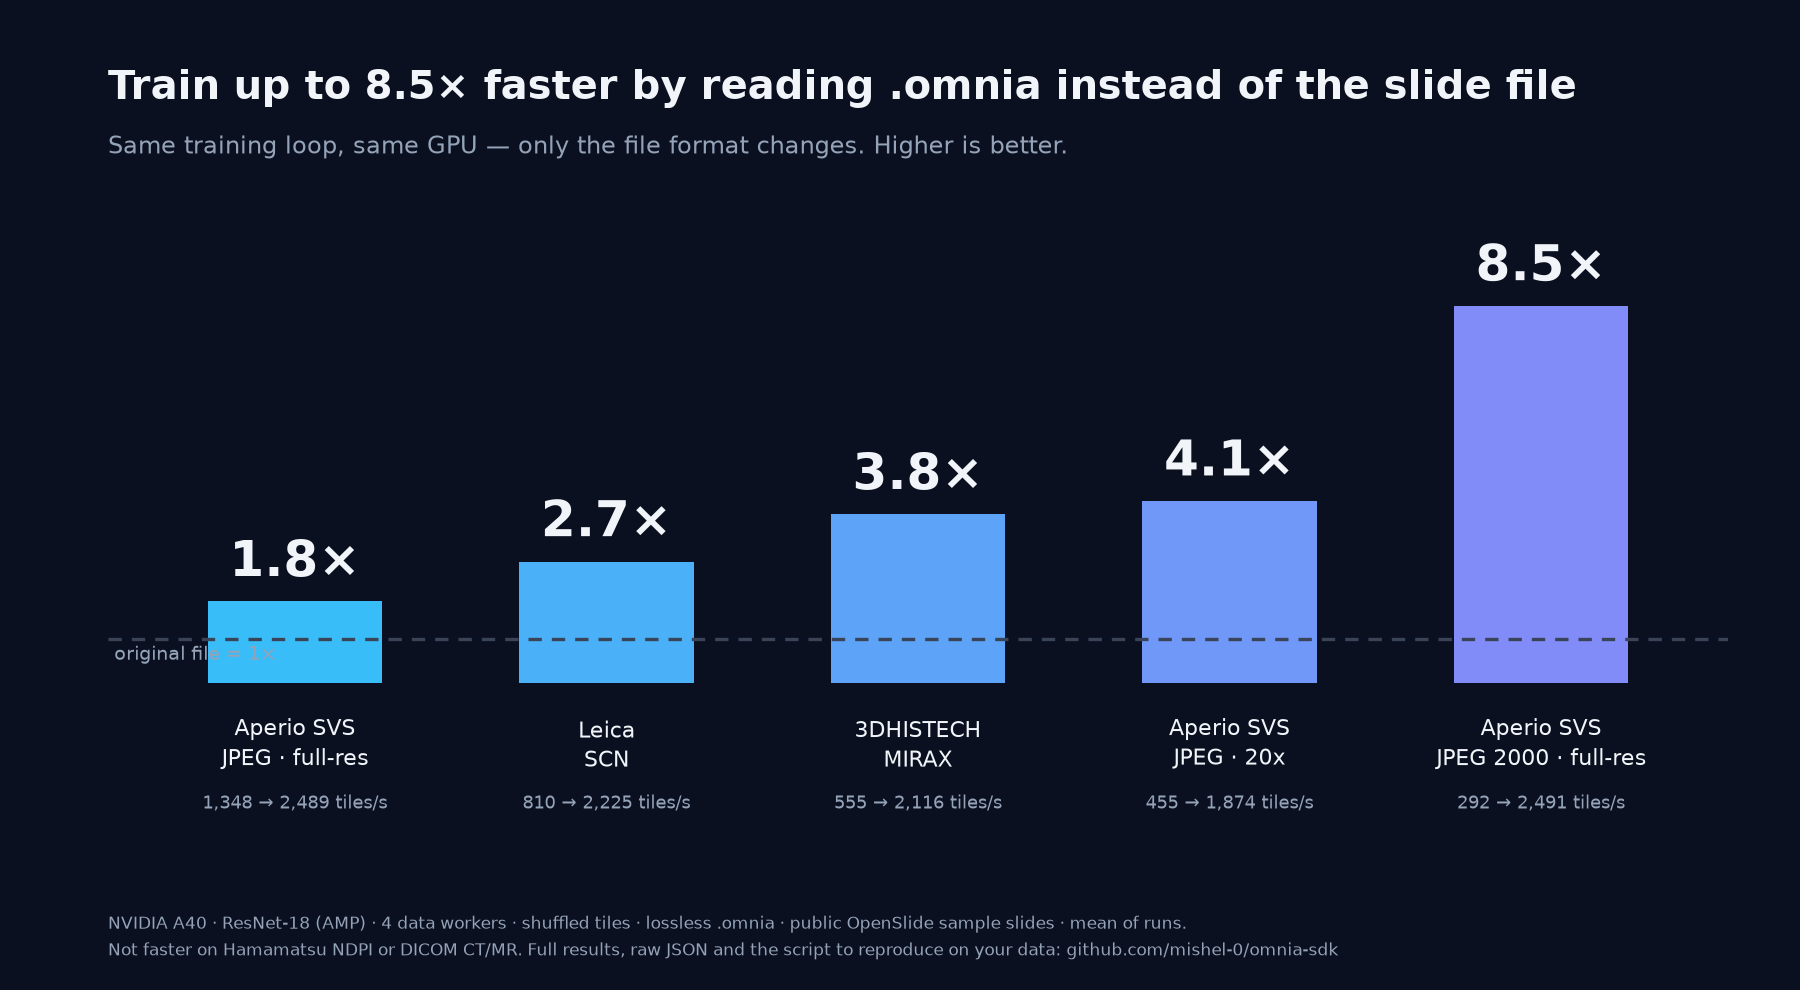
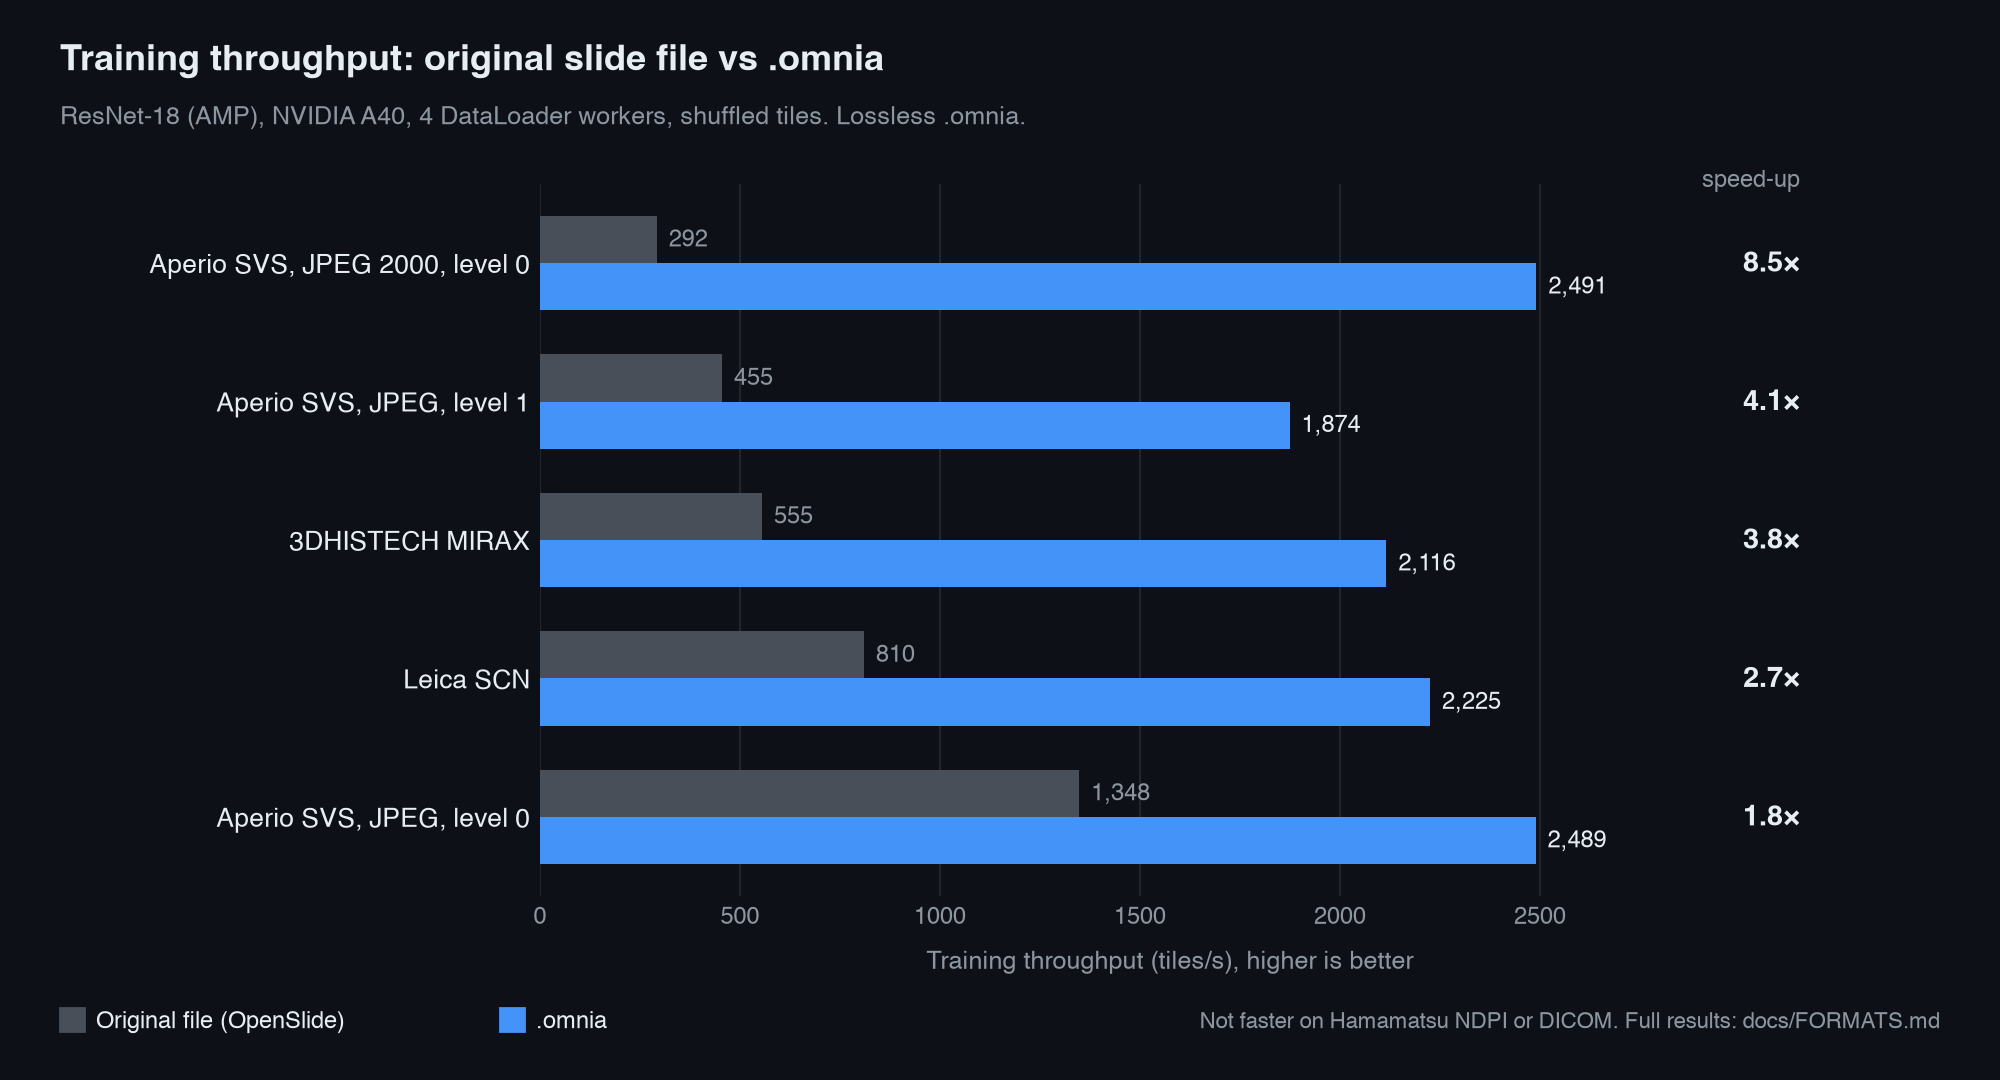
Plainer benchmark figure and README opening

diff --git a/benchmarks/make_hero.py b/benchmarks/make_hero.py
@@ -1,71 +1,75 @@
 #!/usr/bin/env python3
-"""Hero benchmark graphic for the README and social posts (light + dark).
+"""Benchmark figure for the README (light and dark variants).
 
-Same recorded numbers as benchmarks/headline.json, sorted from smallest to largest
-speed-up. Footer states where .omnia is not faster.
+Recorded numbers only (see benchmarks/headline.json). Horizontal grouped bars, sorted by
+speed-up, with the setup and the formats where .omnia is not faster stated underneath.
 """
 from pathlib import Path
 
 import matplotlib
 matplotlib.use("Agg")
 import matplotlib.pyplot as plt
-from matplotlib.colors import LinearSegmentedColormap
-from matplotlib.patches import FancyBboxPatch
+from matplotlib import font_manager
 
 OUT = Path(__file__).resolve().parent / "charts"
+for f in ("/System/Library/Fonts/Helvetica.ttc", "/System/Library/Fonts/HelveticaNeue.ttc"):
+    if Path(f).exists():
+        font_manager.fontManager.addfont(f)
+plt.rcParams["font.family"] = ["Helvetica", "Helvetica Neue", "Arial", "DejaVu Sans"]
 
 # label, original tiles/s, .omnia tiles/s
 ROWS = sorted([
-    ("Aperio SVS\nJPEG · full-res", 1348, 2489),
-    ("Leica\nSCN", 810, 2225),
-    ("3DHISTECH\nMIRAX", 555, 2116),
-    ("Aperio SVS\nJPEG · 20x", 455, 1874),
-    ("Aperio SVS\nJPEG 2000 · full-res", 292, 2491),
+    ("Aperio SVS, JPEG, level 0", 1348, 2489),
+    ("Leica SCN", 810, 2225),
+    ("3DHISTECH MIRAX", 555, 2116),
+    ("Aperio SVS, JPEG, level 1", 455, 1874),
+    ("Aperio SVS, JPEG 2000, level 0", 292, 2491),
 ], key=lambda r: r[2] / r[1])
 
 THEMES = {
-    "light": dict(bg="#ffffff", ink="#0b1220", muted="#5b6577", grid="#e6e9ef", base="#c7cdd8",
-                  c0="#60a5fa", c1="#1d4ed8"),
-    "dark": dict(bg="#0b1020", ink="#f1f5f9", muted="#94a3b8", grid="#1e2638", base="#3a4458",
-                 c0="#38bdf8", c1="#818cf8"),
+    "light": dict(bg="#ffffff", ink="#1f2328", muted="#656d76", grid="#eaeef2", base="#afb8c1", accent="#0969da"),
+    "dark":  dict(bg="#0d1117", ink="#e6edf3", muted="#8d96a0", grid="#21262d", base="#484f58", accent="#4493f8"),
 }
 
 
-def rounded_bar(ax, x, h, w, color):
-    ax.add_patch(FancyBboxPatch((x - w / 2, 0), w, h, boxstyle="round,pad=0,rounding_size=0.12",
-                                mutation_aspect=1 / 1.6, linewidth=0, facecolor=color))
-
-
-def draw(theme, name, size=(12, 6.6)):
+def draw(theme, name, size=(10, 5.4)):
     t = THEMES[theme]
-    cmap = LinearSegmentedColormap.from_list("g", [t["c0"], t["c1"]])
-    fig = plt.figure(figsize=size, dpi=150, facecolor=t["bg"])
-    ax = fig.add_axes([0.06, 0.31, 0.90, 0.45]); ax.set_facecolor(t["bg"])
-    n = len(ROWS)
-    ups = [b / a for _, a, b in ROWS]
-    top = max(ups) * 1.18
+    fig = plt.figure(figsize=size, dpi=200, facecolor=t["bg"])
+    ax = fig.add_axes([0.27, 0.17, 0.63, 0.66]); ax.set_facecolor(t["bg"])
+    h = 0.34
     for i, (label, a, b) in enumerate(ROWS):
-        up = b / a
-        ax.bar(i, up, .56, color=cmap(i / (n - 1)), linewidth=0)
-        ax.text(i, up + top * .03, f"{up:.1f}×", ha="center", va="bottom", fontsize=24, fontweight="bold", color=t["ink"])
-        ax.text(i, -top * .07, label, ha="center", va="top", fontsize=10.5, color=t["ink"], linespacing=1.35)
-        ax.text(i, -top * .25, f"{a:,} → {b:,} tiles/s", ha="center", va="top", fontsize=8.6, color=t["muted"])
-    ax.axhline(1, color=t["base"], lw=1.6, ls=(0, (4, 3)))
-    ax.text(-.58, 1 - top * .015, "original file = 1×", ha="left", va="top", fontsize=9, color=t["muted"])
-    ax.set_xlim(-.6, n - .4); ax.set_ylim(0, top); ax.axis("off")
-    fig.text(0.06, 0.90, "Train up to 8.5× faster by reading .omnia instead of the slide file",
-             fontsize=19, fontweight="bold", color=t["ink"])
-    fig.text(0.06, 0.845, "Same training loop, same GPU — only the file format changes. Higher is better.",
-             fontsize=11.5, color=t["muted"])
-    fig.text(0.06, 0.035,
-             "NVIDIA A40 · ResNet-18 (AMP) · 4 data workers · shuffled tiles · lossless .omnia · public OpenSlide sample slides · mean of runs.\n"
-             "Not faster on Hamamatsu NDPI or DICOM CT/MR. Full results, raw JSON and the script to reproduce on your data: github.com/mishel-0/omnia-sdk",
-             fontsize=8, color=t["muted"], linespacing=1.6)
+        ax.barh(i + h / 2, a, h, color=t["base"], linewidth=0)
+        ax.barh(i - h / 2, b, h, color=t["accent"], linewidth=0)
+        ax.text(a + 30, i + h / 2, f"{a:,}", va="center", fontsize=8.5, color=t["muted"])
+        ax.text(b + 30, i - h / 2, f"{b:,}", va="center", fontsize=8.5, color=t["ink"])
+        ax.text(3150, i, f"{b / a:.1f}×", va="center", ha="right", fontsize=10.5, color=t["ink"], fontweight="bold")
+    ax.set_yticks(range(len(ROWS)), [r[0] for r in ROWS], fontsize=9.5, color=t["ink"])
+    ax.set_xlim(0, 3150)
+    ax.set_xticks([0, 500, 1000, 1500, 2000, 2500])
+    ax.tick_params(axis="x", colors=t["muted"], labelsize=8.5, length=0)
+    ax.tick_params(axis="y", length=0)
+    ax.grid(axis="x", color=t["grid"], lw=0.8); ax.set_axisbelow(True)
+    for s in ax.spines.values():
+        s.set_visible(False)
+    ax.set_xlabel("Training throughput (tiles/s), higher is better", fontsize=9, color=t["muted"], labelpad=8)
+    ax.text(3150, len(ROWS) - 0.45, "speed-up", ha="right", fontsize=8.5, color=t["muted"])
+
+    fig.text(0.03, 0.935, "Training throughput: original slide file vs .omnia", fontsize=13, color=t["ink"], fontweight="bold")
+    fig.text(0.03, 0.885, "ResNet-18 (AMP), NVIDIA A40, 4 DataLoader workers, shuffled tiles. Lossless .omnia.",
+             fontsize=9, color=t["muted"])
+    # legend
+    lx = 0.03
+    for color, text in ((t["base"], "Original file (OpenSlide)"), (t["accent"], ".omnia")):
+        fig.patches.append(plt.Rectangle((lx, 0.045), 0.012, 0.022, transform=fig.transFigure, color=color))
+        fig.text(lx + 0.018, 0.048, text, fontsize=8.5, color=t["ink"])
+        lx += 0.22
+    fig.text(0.97, 0.048, "Not faster on Hamamatsu NDPI or DICOM. Full results: docs/FORMATS.md",
+             ha="right", fontsize=8, color=t["muted"])
     fig.savefig(OUT / name, facecolor=t["bg"])
     plt.close(fig)
 
 
 draw("light", "hero_speedup_light.png")
 draw("dark", "hero_speedup_dark.png")
-draw("light", "hero_speedup_square.png", size=(8, 8))
+draw("light", "hero_speedup_square.png", size=(8, 6))
 print("ok")

diff --git a/README.md b/README.md
@@ -1,18 +1,16 @@
 <h1 align="center">omnia-sdk</h1>
 
-<p align="center"><b>Stop letting slide decoding starve your GPU.</b><br/>
-Convert whole-slide images, DICOM and NIfTI into one fast, verifiable <code>.omnia</code> file and train straight from it.</p>
+<p align="center">A training-oriented container for medical images.<br/>
+Converts whole-slide images, DICOM and NIfTI to <code>.omnia</code> and reads them into PyTorch.</p>
 
 <p align="center">
   <img src="https://img.shields.io/badge/license-MIT-green" alt="MIT"/>
   <img src="https://img.shields.io/badge/python-3.11%2B-blue" alt="Python 3.11+"/>
-  <img src="https://img.shields.io/badge/PyTorch-ready-ee4c2c" alt="PyTorch"/>
-  <img src="https://img.shields.io/badge/formats-SVS%20%C2%B7%20MRXS%20%C2%B7%20SCN%20%C2%B7%20NDPI%20%C2%B7%20TIFF%20%C2%B7%20DICOM%20%C2%B7%20NIfTI-6366f1" alt="formats"/>
 </p>
 
 <picture>
   <source media="(prefers-color-scheme: dark)" srcset="benchmarks/charts/hero_speedup_dark.png">
-  <img src="benchmarks/charts/hero_speedup_light.png" alt="Training throughput: up to 8.5x faster from .omnia than from the original slide file" width="100%">
+  <img src="benchmarks/charts/hero_speedup_light.png" alt="Training throughput, original slide file vs .omnia" width="100%">
 </picture>
 
 ```bash
@@ -22,11 +20,11 @@ omnia convert slide.svs        # -> slide.omnia, then train from it
 
 ## Why
 
-- **Faster training where decoding is the bottleneck.** Measured 1.8x to 8.5x on Aperio SVS, MIRAX and Leica SCN with the same model and GPU ([full results](docs/FORMATS.md)).
-- **Exact.** Tiles come back identical to OpenSlide; NIfTI, CT and MR slices bit-for-bit. Every block is CRC-checked.
-- **One format for your whole pipeline.** Slides, DICOM series, DICOM whole-slide and NIfTI behind one `omnia convert` and one PyTorch dataset.
-- **Private by default.** Converting DICOM keeps only acquisition fields; patient name, ID and dates never enter the file.
-- **Measure it on your own data** in a minute: `omnia recommend slide.svs`, or the full run with `omnia benchmark formats`.
+- **Throughput.** Where decoding the slide is the bottleneck, training read 1.8x to 8.5x more tiles per second from `.omnia` than from the original file (Aperio SVS, MIRAX, Leica SCN; [full results](docs/FORMATS.md)).
+- **Exact.** Tiles match OpenSlide output; NIfTI, CT and MR slices round-trip bit for bit. Every block carries a CRC.
+- **One format.** Slides, DICOM series, DICOM whole-slide and NIfTI share one converter and one dataset class.
+- **No patient identifiers.** DICOM conversion copies acquisition fields only.
+- **Measurable.** `omnia recommend` and `omnia benchmark formats` reproduce the comparison on your own files.
 
 ## Install
 
